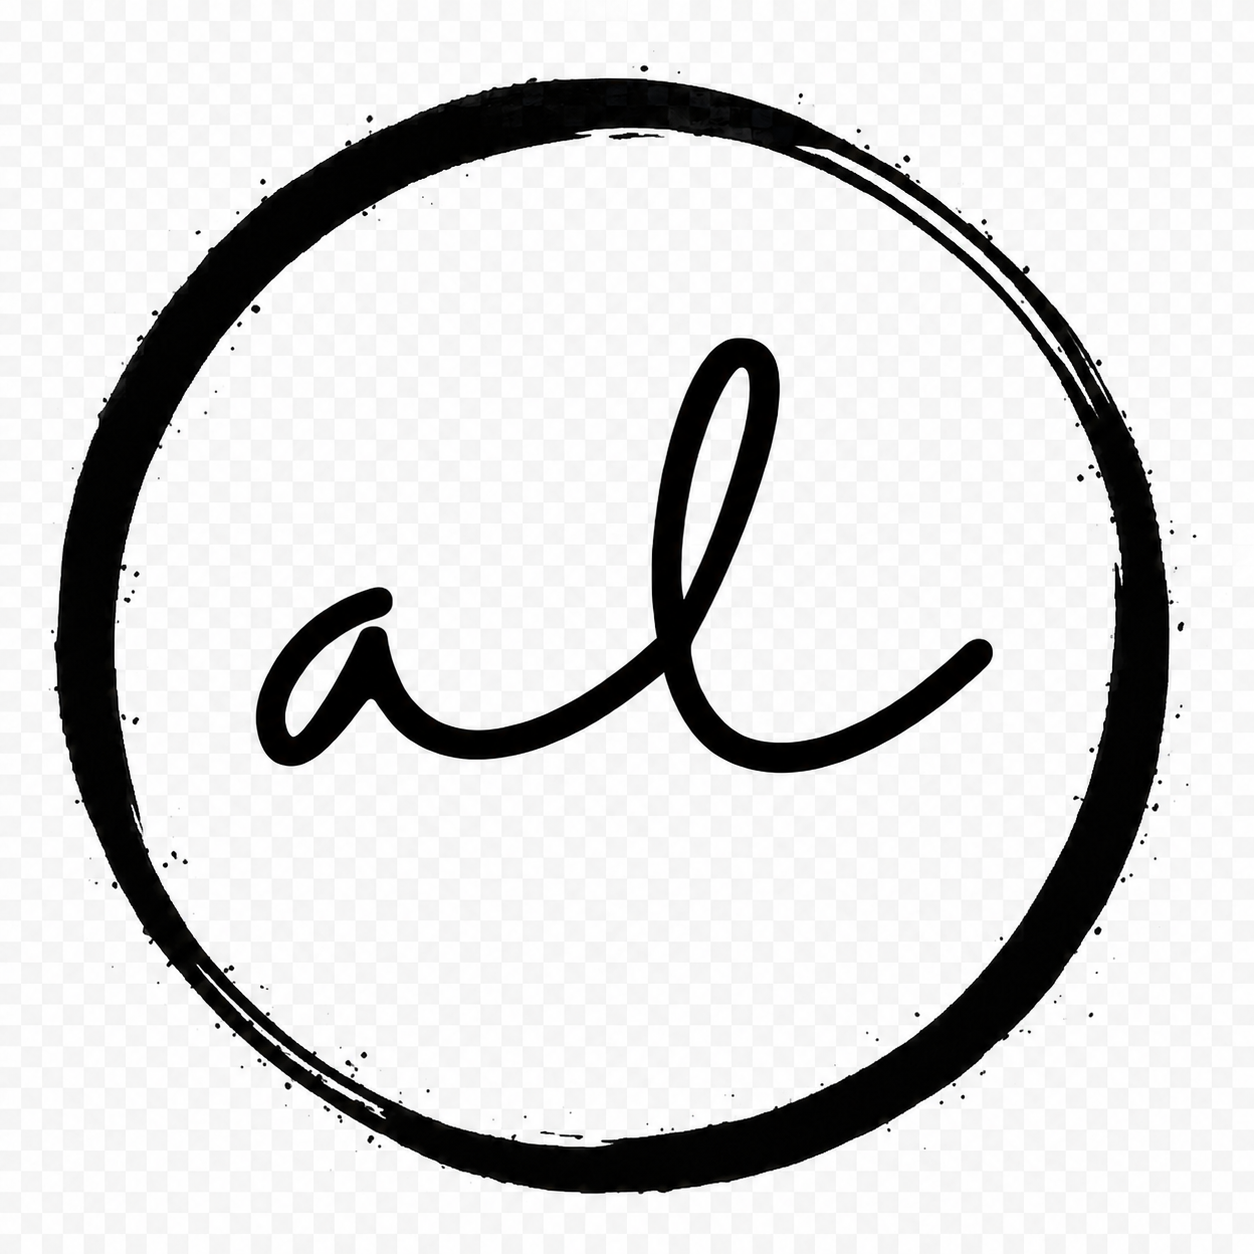
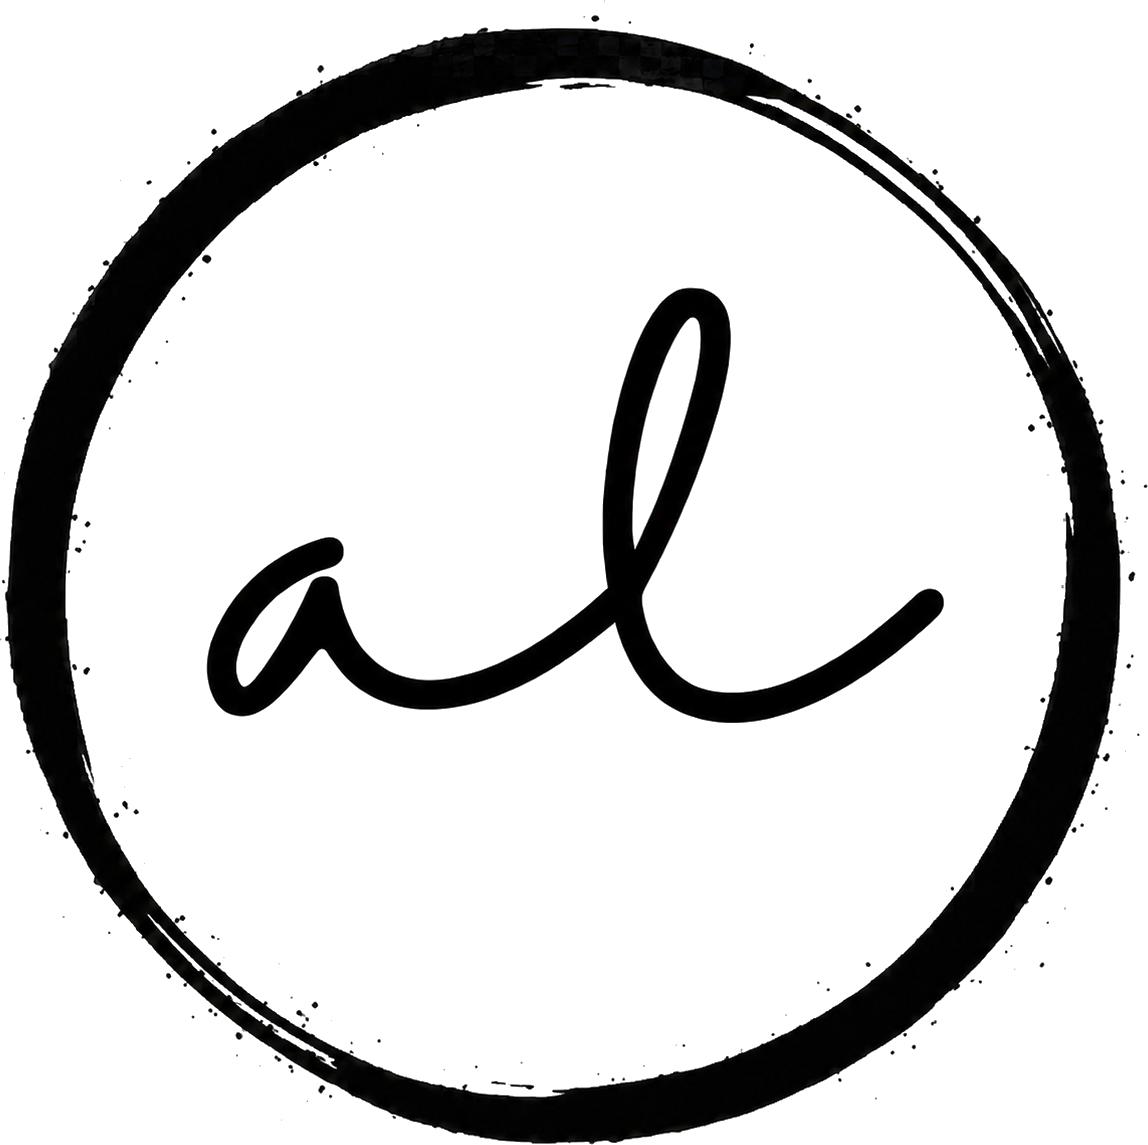
Real alpha-channel transparency + bigger monogram everywhere
- ImageMagick: convert white-bg RGB PNG to RGBA, fuzz 12% to absorb antialiased edges, trim to content bbox (1148x1145 vs 1254 original). True transparent background now.
- Navbar: 48/56 -> 56/64 px (mobile/desktop)
- Footer: 96 -> 128/160 px (mobile/desktop), wordmark up to 36/44
- Company section: drop max-width cap entirely; monogram fills its grid column

Changed region(s): [[0.0, 0.0, 0.9756, 1.0], [0.1829, 0.2445, 0.8232, 0.6419]]

diff --git a/src/components/Footer.tsx b/src/components/Footer.tsx
@@ -26,9 +26,9 @@ export default function Footer() {
                 src={ASSETS.almMonogramDark}
                 alt=""
                 aria-hidden="true"
-                className="h-24 w-24 object-contain"
+                className="h-32 w-32 lg:h-40 lg:w-40 object-contain"
               />
-              <img src={ASSETS.logo} alt="Adam Loomis" className="h-9 w-auto" />
+              <img src={ASSETS.logo} alt="Adam Loomis" className="h-9 lg:h-11 w-auto" />
             </div>
             <p className="text-[#6E6E6E] text-[15px] leading-relaxed max-w-sm">
               Marketing strategist, speaker, and entrepreneur helping businesses

diff --git a/src/components/CompanySection.tsx b/src/components/CompanySection.tsx
@@ -32,7 +32,7 @@ export default function CompanySection() {
                 <img
                   src={ASSETS.almMonogramDark}
                   alt="Adam Loomis Marketing"
-                  className="w-full h-auto max-w-[560px]"
+                  className="w-full h-auto"
                 />
               </div>
             </div>

diff --git a/src/components/Navbar.tsx b/src/components/Navbar.tsx
@@ -31,7 +31,7 @@ export default function Navbar() {
             src={ASSETS.almMonogramDark}
             alt=""
             aria-hidden="true"
-            className="h-12 lg:h-14 w-12 lg:w-14 object-contain"
+            className="h-14 lg:h-16 w-14 lg:w-16 object-contain"
           />
           <img
             src={ASSETS.logo}
